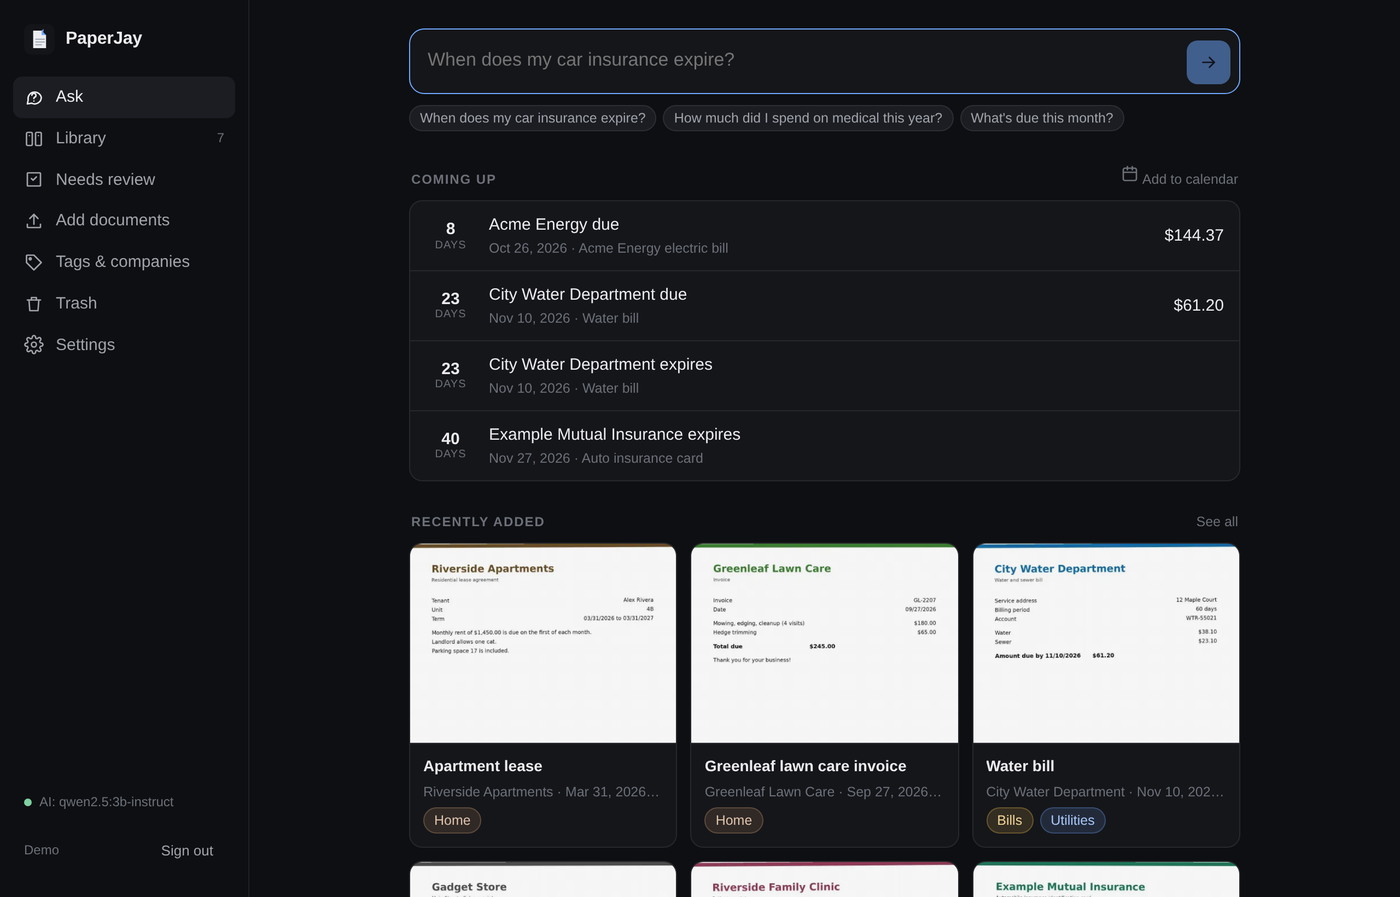
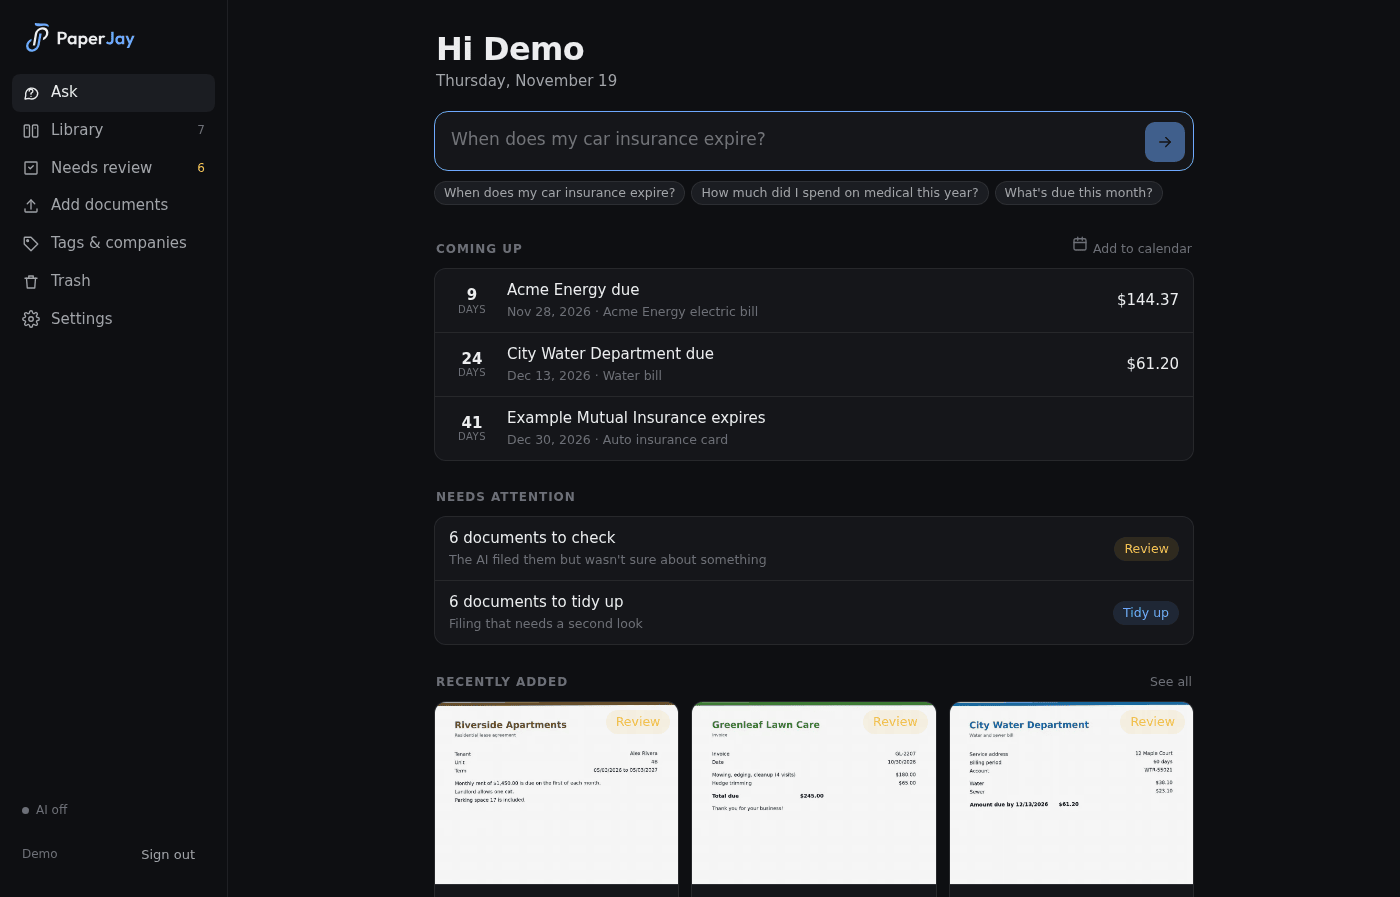
Docs: new screenshots and README for 0.6
Fresh screenshots from the demo library (made-up documents; the answers
shown need no AI): the greeting start page, an instant answer, a total, the
library, and on a phone the tab bar, grouped Settings, swipe to delete and
the AI assistants page. Compressed with pngquant (about a fifth of the old
size). README: phone row, a "feels at home on a phone" point, MCP in the
comparison and guides, and mail import marked as supported (it has been
since 0.3). docs/phone.md: the Add button and the Camera scanner row.

diff --git a/README.md b/README.md
@@ -8,13 +8,19 @@ reads it with OCR, files it (title, date, company, type, tags) and lets you find
 documents they came from, and every number in them is checked against those documents. AI is optional and
 runs on your own hardware.
 
-![The start page: a question box, what's coming up, and recent documents](docs/screenshots/home.png)
+![The start page: a greeting, the box to search or ask, what's coming up, what needs attention and recent documents](docs/screenshots/home.png)
 
-| Ask | Library | On a phone |
+| Ask | Totals | Library |
 |---|---|---|
-| ![A cited answer](docs/screenshots/answer.png) | ![The library](docs/screenshots/library.png) | ![An instant answer on a phone](docs/screenshots/phone-answer.png) |
+| ![An instant answer with its source](docs/screenshots/answer.png) | ![Medical costs added up, with the receipts](docs/screenshots/total.png) | ![The library](docs/screenshots/library.png) |
 
-*Screenshots use made-up documents.*
+**On a phone** (it installs as an app):
+
+| Start page | Settings | Swipe to delete | AI assistants |
+|---|---|---|---|
+| ![The start page on a phone, with the tab bar and its round Add button](docs/screenshots/phone-home.png) | ![Settings in groups, each with its current choice](docs/screenshots/phone-settings.png) | ![A document swiped left to show its delete button](docs/screenshots/phone-swipe.png) | ![Making an access key for Claude with chosen permissions](docs/screenshots/phone-assistants.png) |
+
+*Screenshots use made-up documents. The answers shown need no AI.*
 
 ## What it does
 
@@ -38,6 +44,8 @@ runs on your own hardware.
 - **Works with AI assistants**: a built-in MCP server lets Claude (or another assistant) search, read, add,
   change and delete documents, with an access key that has only the permissions you choose
   ([docs/mcp.md](docs/mcp.md)).
+- **Feels at home on a phone**: install it from the browser; a tab bar with a big **Add** button, swipe a
+  document left to delete it, share files to PaperJay, scan with the camera.
 - **Remembers dates**: bills coming due and policies expiring, on the start page, in your phone's calendar,
   and as JSON for Home Assistant.
 - **Gets out of your way**: one container, one data folder (SQLite, no Postgres or Redis), a plain-folder
@@ -71,7 +79,7 @@ default model on a CPU; a GPU makes it fast).
 
 - [Installing](docs/install.md) · [Choosing an AI model](docs/ai-models.md) · [Backups](docs/backups.md)
 - [Moving from Paperless-ngx](docs/migrate-from-paperless.md) · [Phones: camera, share sheet, shortcuts, calendar](docs/phone.md) · [Email](docs/email.md)
-- [Home Assistant](docs/home-assistant.md) · [Export format](docs/export.md) · [API](docs/api.md)
+- [AI assistants (MCP)](docs/mcp.md) · [Home Assistant](docs/home-assistant.md) · [Export format](docs/export.md) · [API](docs/api.md)
 
 ## How it compares
 
@@ -82,7 +90,9 @@ default model on a CPU; a GPU makes it fast).
 | AI filing | optional, local; grounded in the text, never overrides people | rule-based matching, optional AI suggestions | the add-on's job |
 | Questions with cited, checked answers | yes, plus totals and instant facts | no | chat (paperless-ai) |
 | Due and expiry dates, calendar feed | yes | no | no |
-| Mail import, workflows, barcode splitting, custom fields, per-document permissions | not yet | **yes** | via Paperless |
+| Mail import | yes | yes | via Paperless |
+| Works with AI assistants (MCP), with per-key permissions | built in | not built in (community add-ons) | not built in |
+| Workflows, barcode splitting, custom fields, per-document permissions | not yet | **yes** | via Paperless |
 
 Paperless-ngx is the mature, feature-rich choice for large or shared archives with complex rules. PaperJay
 aims at households: fewer moving parts, filing that mostly happens by itself, and answers instead of

diff --git a/docs/phone.md b/docs/phone.md
@@ -7,7 +7,7 @@ button; Chrome: the menu). It opens full screen, like an app.
 
 ## Scan documents with the camera
 
-**Add documents → Scan with camera.** Point the phone at the page: PaperJay outlines the page while you aim,
+**Add** (the round button in the middle of the bar; **Add documents** on a computer) **→ Scan with camera.** Point the phone at the page: PaperJay outlines the page while you aim,
 and when you hold still for a moment (the ring around the button fills up) it takes the photo by itself. Put
 the next page down and it takes that one too; tap **Done** when you're finished. **Auto** switches to
 taking each photo with the button instead, and ⚡ turns on the light where the phone allows it.
@@ -20,7 +20,7 @@ the edges.
 ### One-time setup: the secure address
 
 Phones only let web apps use the live camera over **https**. PaperJay has its own HTTPS for this, with a
-certificate it makes itself; each phone trusts it once. Open **Settings → Use the camera scanner on this phone** on the phone
+certificate it makes itself; each phone trusts it once. Open **Settings → Camera scanner** on the phone
 and follow the steps (iPhone: download a profile, install it, then turn it on under Settings → General →
 About → Certificate Trust Settings; Android: install a CA certificate). Then open the https address it
 shows and, if PaperJay is on your home screen, add it again from there.
